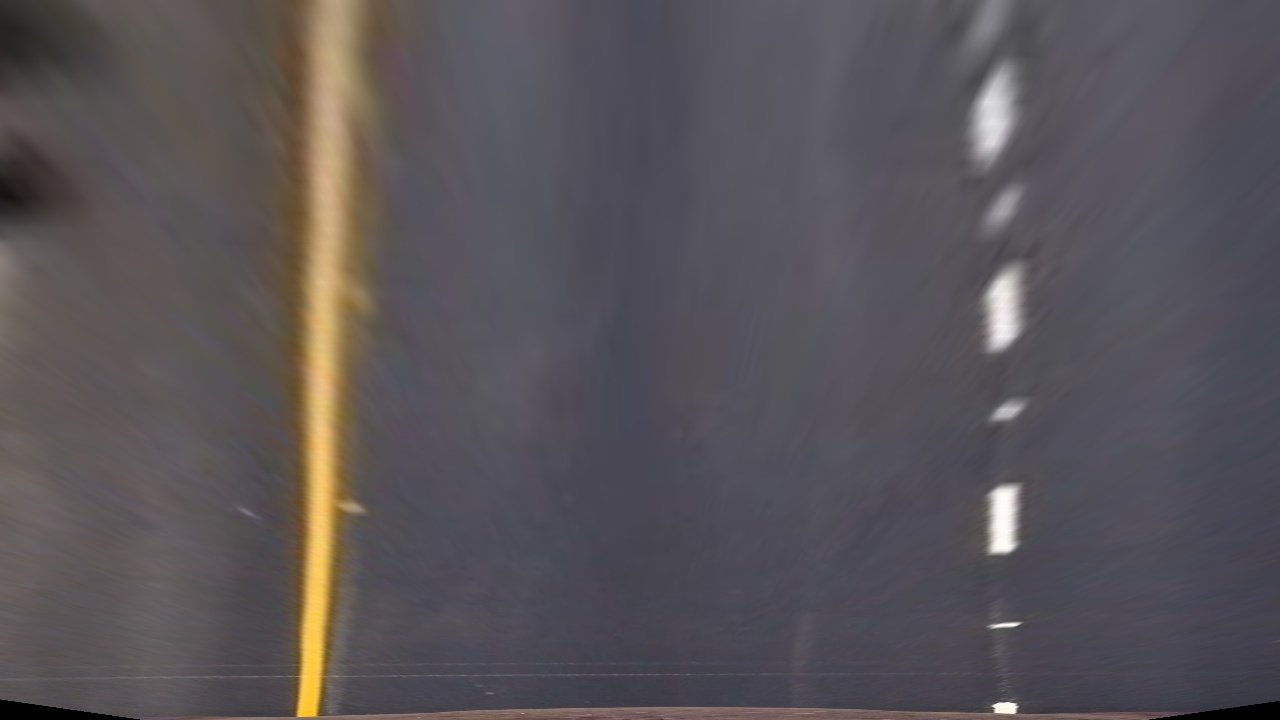
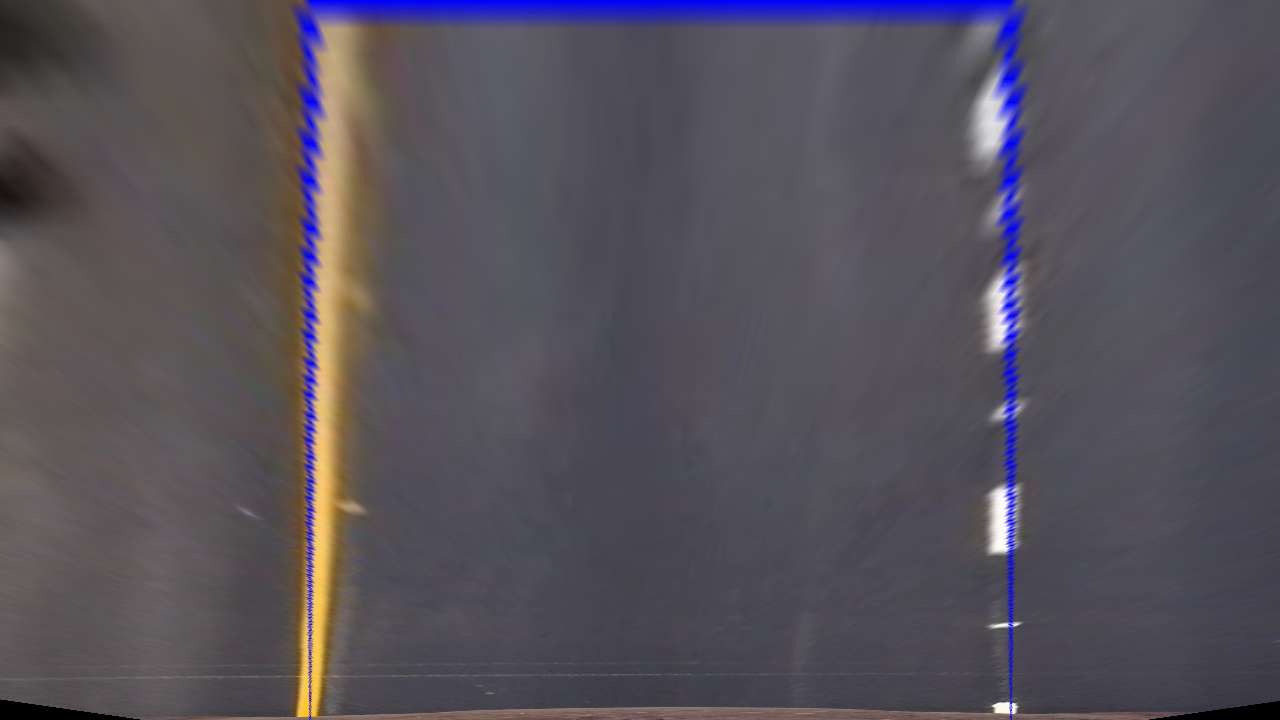
writeup

Changed region(s): [[0.2188, 0.0, 0.8125, 1.0]]

diff --git a/advanced_lane_lines.py b/advanced_lane_lines.py
@@ -71,6 +71,7 @@ def transform(img):
 	Minv = cv2.getPerspectiveTransform(dst, src)
 	# e) use cv2.warpPerspective() to warp your image to a top-down view
 	warped = cv2.warpPerspective(img, M, img_size, flags=cv2.INTER_LINEAR)
+	
 	return warped, Minv
 	
 def detect_lines(binary_warped,lane):
@@ -226,6 +227,12 @@ def pipeline(img):
 	# STEP A.3 Color/gradient threshold
 	result = hls_select(undist)
 	
+	if save_images:
+		# Save binary file
+		final_image_RGB = np.dstack((result, result, result))*255
+		write_name = output_folder + 'binary_' + filename
+		cv2.imwrite(write_name,final_image_RGB)
+	
 	# STEP A.4 Perspective transform
 	result, Minv = transform(result)
 	
@@ -233,7 +240,7 @@ def pipeline(img):
 	
 	if save_images:
 		# Save binary file
-		final_image_RGB = out_img = np.dstack((result, result, result))*255
+		final_image_RGB = np.dstack((result, result, result))*255
 		write_name = output_folder + 'binary_warp_' + filename
 		cv2.imwrite(write_name,final_image_RGB)
 	
@@ -271,6 +278,12 @@ for fname in images:
 	if save_images:
 		# Warp original
 		undist = cv2.undistort(img, mtx, dist, None, mtx)
+		cv2.line(undist, (210, 720), (599, 446), color=[255,0,0], thickness=1)
+		cv2.line(undist, (599, 446), (680, 446), color=[255,0,0], thickness=1)
+		cv2.line(undist, (680, 446), (1110, 720), color=[255,0,0], thickness=1)
+		cv2.line(undist, (1110, 720), (210, 720), color=[255,0,0], thickness=1)
+		write_name = output_folder + 'original_rectangle_' + filename
+		cv2.imwrite(write_name,undist)
 		warped, Minv = transform(undist)
 		write_name = output_folder + 'warped_' + filename
 		cv2.imwrite(write_name,warped)
@@ -287,6 +300,7 @@ for fname in images:
 # Import everything needed to edit/save/watch video clips
 from moviepy.editor import VideoFileClip
 
+"""
 save_images = False
 is_video = True
 white_output = 'project_video_result.mp4'
@@ -298,3 +312,4 @@ white_output = 'project_video_result.mp4'
 clip1 = VideoFileClip("project_video.mp4")
 white_clip = clip1.fl_image(pipeline) #NOTE: this function expects color images!!
 white_clip.write_videofile(white_output, audio=False)
+"""

diff --git a/writeup_template.md b/writeup_template.md
@@ -19,12 +19,14 @@ The goals / steps of this project are the following:
 
 [//]: # (Image References)
 
-[image1]: ./examples/undistort_output.png "Undistorted"
-[image2]: ./test_images/test1.jpg "Road Transformed"
-[image3]: ./examples/binary_combo_example.jpg "Binary Example"
-[image4]: ./examples/warped_straight_lines.jpg "Warp Example"
-[image5]: ./examples/color_fit_lines.jpg "Fit Visual"
-[image6]: ./examples/example_output.jpg "Output"
+[image1]: ./camera_cal/calibration1.jpg "Undistorted"
+[image2]: ./output_images/undist_calibration1.jpg "Undistorted"
+[image3]: ./output_images/original_undistorted_mixed.jpg "Undistorted mixed"
+[image4]: ./output_images/binary_straight_lines1.jpg "Binary"
+[image5]: ./output_images/original_rectangle_straight_lines1.jpg "Binary Example"
+[image6]: ./output_images/warped_straight_lines1.jpg "Warp Example"
+[image7]: ./output_images/sliding_windows_straight_lines1.jpg "Fit Visual"
+[image8]: ./output_images/example_output.jpg "Output"
 [video1]: ./project_video.mp4 "Video"
 
 ## [Rubric](https://review.udacity.com/#!/rubrics/571/view) Points
@@ -43,7 +45,7 @@ You're reading it!
 
 #### 1. Briefly state how you computed the camera matrix and distortion coefficients. Provide an example of a distortion corrected calibration image.
 
-The code for this step is contained in the first code cell of the IPython notebook located in "./examples/example.ipynb" (or in lines # through # of the file called `some_file.py`).  
+The code for this step is contained in the file called `camera_calibration.py`.  
 
 I start by preparing "object points", which will be the (x, y, z) coordinates of the chessboard corners in the world. Here I am assuming the chessboard is fixed on the (x, y) plane at z=0, such that the object points are the same for each calibration image.  Thus, `objp` is just a replicated array of coordinates, and `objpoints` will be appended with a copy of it every time I successfully detect all chessboard corners in a test image.  `imgpoints` will be appended with the (x, y) pixel position of each of the corners in the image plane with each successful chessboard detection.  
 
@@ -51,58 +53,64 @@ I then used the output `objpoints` and `imgpoints` to compute the camera calibra
 
 ![alt text][image1]
 
+![alt text][image2]
+
 ### Pipeline (single images)
 
 #### 1. Provide an example of a distortion-corrected image.
 
 To demonstrate this step, I will describe how I apply the distortion correction to one of the test images like this one:
-![alt text][image2]
+![alt text][image3]
+
+In the image I mixed the original and the undistorted images in order to see the differences. We can observe a kind of tunnel effect, as the center of the image is quite similar, but in the borders it's more fuzzy, and for example the positions from traffic signs changes.
 
 #### 2. Describe how (and identify where in your code) you used color transforms, gradients or other methods to create a thresholded binary image.  Provide an example of a binary image result.
 
-I used a combination of color and gradient thresholds to generate a binary image (thresholding steps at lines # through # in `another_file.py`).  Here's an example of my output for this step.  (note: this is not actually from one of the test images)
+I used a combination of S and L channels thresholds to generate a binary image after transforming the original image to HLS (thresholding steps at lines 31 through 58 in `advanced_lane_lines.py`).  Here's an example of my output for this step.
 
-![alt text][image3]
+![alt text][image4]
 
 #### 3. Describe how (and identify where in your code) you performed a perspective transform and provide an example of a transformed image.
 
-The code for my perspective transform includes a function called `warper()`, which appears in lines 1 through 8 in the file `example.py` (output_images/examples/example.py) (or, for example, in the 3rd code cell of the IPython notebook).  The `warper()` function takes as inputs an image (`img`), as well as source (`src`) and destination (`dst`) points.  I chose the hardcode the source and destination points in the following manner:
-
-```python
-src = np.float32(
-    [[(img_size[0] / 2) - 55, img_size[1] / 2 + 100],
-    [((img_size[0] / 6) - 10), img_size[1]],
-    [(img_size[0] * 5 / 6) + 60, img_size[1]],
-    [(img_size[0] / 2 + 55), img_size[1] / 2 + 100]])
-dst = np.float32(
-    [[(img_size[0] / 4), 0],
-    [(img_size[0] / 4), img_size[1]],
-    [(img_size[0] * 3 / 4), img_size[1]],
-    [(img_size[0] * 3 / 4), 0]])
-```
+The code for my perspective transform includes a function called `transform()`, which appears in lines 60 through 74 in the file `advanced_lane_lines.py` . The `transform()` function takes as inputs an image (`img`). The source (`src`) and destination (`dst`) points were calculated using Photoshop, but it's accuracy is not very good as the process was made by hand.
 
 This resulted in the following source and destination points:
 
 | Source        | Destination   | 
 |:-------------:|:-------------:| 
-| 585, 460      | 320, 0        | 
-| 203, 720      | 320, 720      |
-| 1127, 720     | 960, 720      |
-| 695, 460      | 960, 0        |
+| 599, 446      | 310, 0        | 
+| 210, 720      | 310, 720      |
+| 1110, 720     | 1010, 720     |
+| 680, 446      | 1010, 0       |
 
 I verified that my perspective transform was working as expected by drawing the `src` and `dst` points onto a test image and its warped counterpart to verify that the lines appear parallel in the warped image.
 
-![alt text][image4]
+![alt text][image5]
+
+![alt text][image6]
 
 #### 4. Describe how (and identify where in your code) you identified lane-line pixels and fit their positions with a polynomial?
 
-Then I did some other stuff and fit my lane lines with a 2nd order polynomial kinda like this:
+Then using the code provided in the lesson 33 from the project, using first a histogram I fit my lane lines with a 2nd order polynomial kinda like this:
 
-![alt text][image5]
+![alt text][image7]
+
+This can be found in the function `detect_lines()` in lines 77-216 in file `advanced_lane_lines.py`.
 
 #### 5. Describe how (and identify where in your code) you calculated the radius of curvature of the lane and the position of the vehicle with respect to center.
 
-I did this in lines # through # in my code in `my_other_file.py`
+I did this in lines 192 through 199 in my code in `advanced_lane_lines.py`, again using the code provided in lesson 35. The final curvature is calculated as the average of both values.
+
+```python
+# Fit new polynomials to x,y in world space
+left_fit_cr = np.polyfit(lefty*ym_per_pix, leftx*xm_per_pix, 2)
+right_fit_cr = np.polyfit(righty*ym_per_pix, rightx*xm_per_pix, 2)
+# Calculate the new radii of curvature
+left_curverad = ((1 + (2*left_fit_cr[0]*y_eval*ym_per_pix + left_fit_cr[1])**2)**1.5) / np.absolute(2*left_fit_cr[0])
+right_curverad = ((1 + (2*right_fit_cr[0]*y_eval*ym_per_pix + right_fit_cr[1])**2)**1.5) / np.absolute(2*right_fit_cr[0])
+# Now our radius of curvature is in meters
+curvature = (left_curverad + right_curverad) / 2
+```
 
 #### 6. Provide an example image of your result plotted back down onto the road such that the lane area is identified clearly.
 
